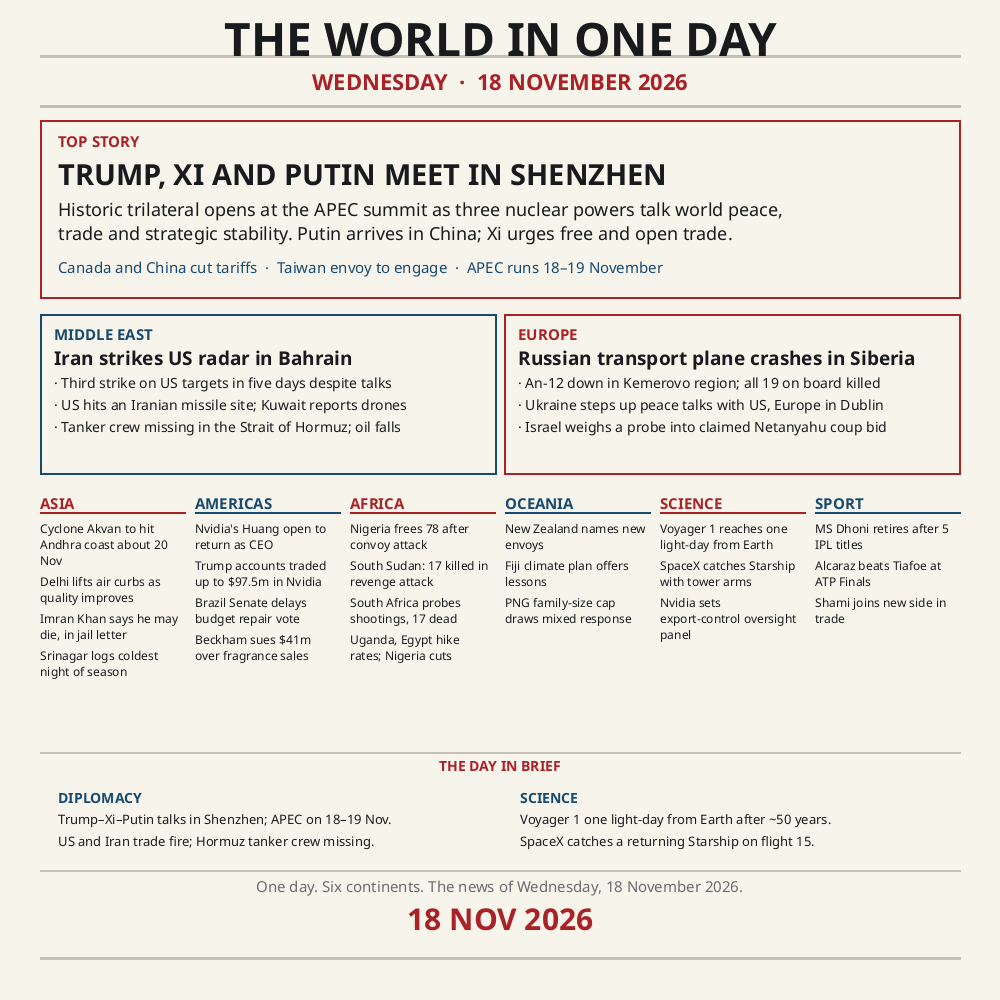
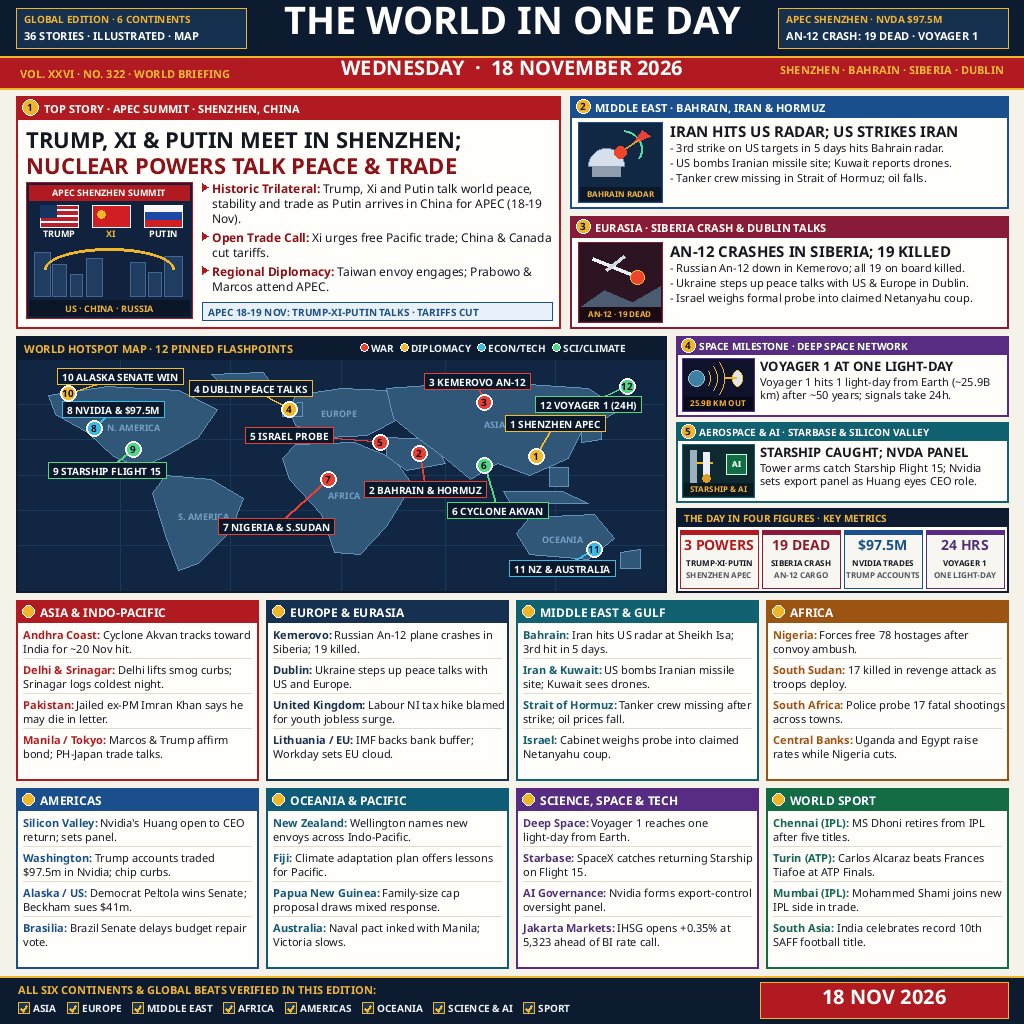
rework v2: illustrated 1024px front page, world map, 36 stories

diff --git a/README.md b/README.md
@@ -4,7 +4,7 @@
 [![rank](https://make.fun/badge/news-image-20261118/eyan7h/news-image-20261118-frontpage/rank.svg)](https://make.fun/bounty/news-image-20261118/leaderboard?utm_source=github&utm_medium=readme&utm_campaign=news-image-20261118)
 [![reward](https://make.fun/badge/news-image-20261118/eyan7h/news-image-20261118-frontpage/reward.svg)](https://make.fun/bounty/news-image-20261118?utm_source=github&utm_medium=readme&utm_campaign=news-image-20261118)
 
-A one-page newspaper front page summing up the world news of Wednesday, 18 November 2026 — six continents, the day's consequential stories, and a clear date label. The image is drawn once by the agent and committed as `entry.png`; the entry program copies those exact bytes to the output path on each run.
+An illustrated 1024x1024 front page summing up the world news of Wednesday, 18 November 2026: 36 verified stories across all six continents, five vector illustrations (Trump-Xi-Putin APEC Shenzhen trilateral, Bahrain radar & Iran strikes, Siberia An-12 crash, Voyager 1 at one light-day, and SpaceX Starship Flight 15), a 12-pin global hotspot map, and the day in four figures. Drawn with PIL and committed as `entry.png`; `main.py` copies those exact bytes deterministically on each grading run.
 
 ## Run it
 
